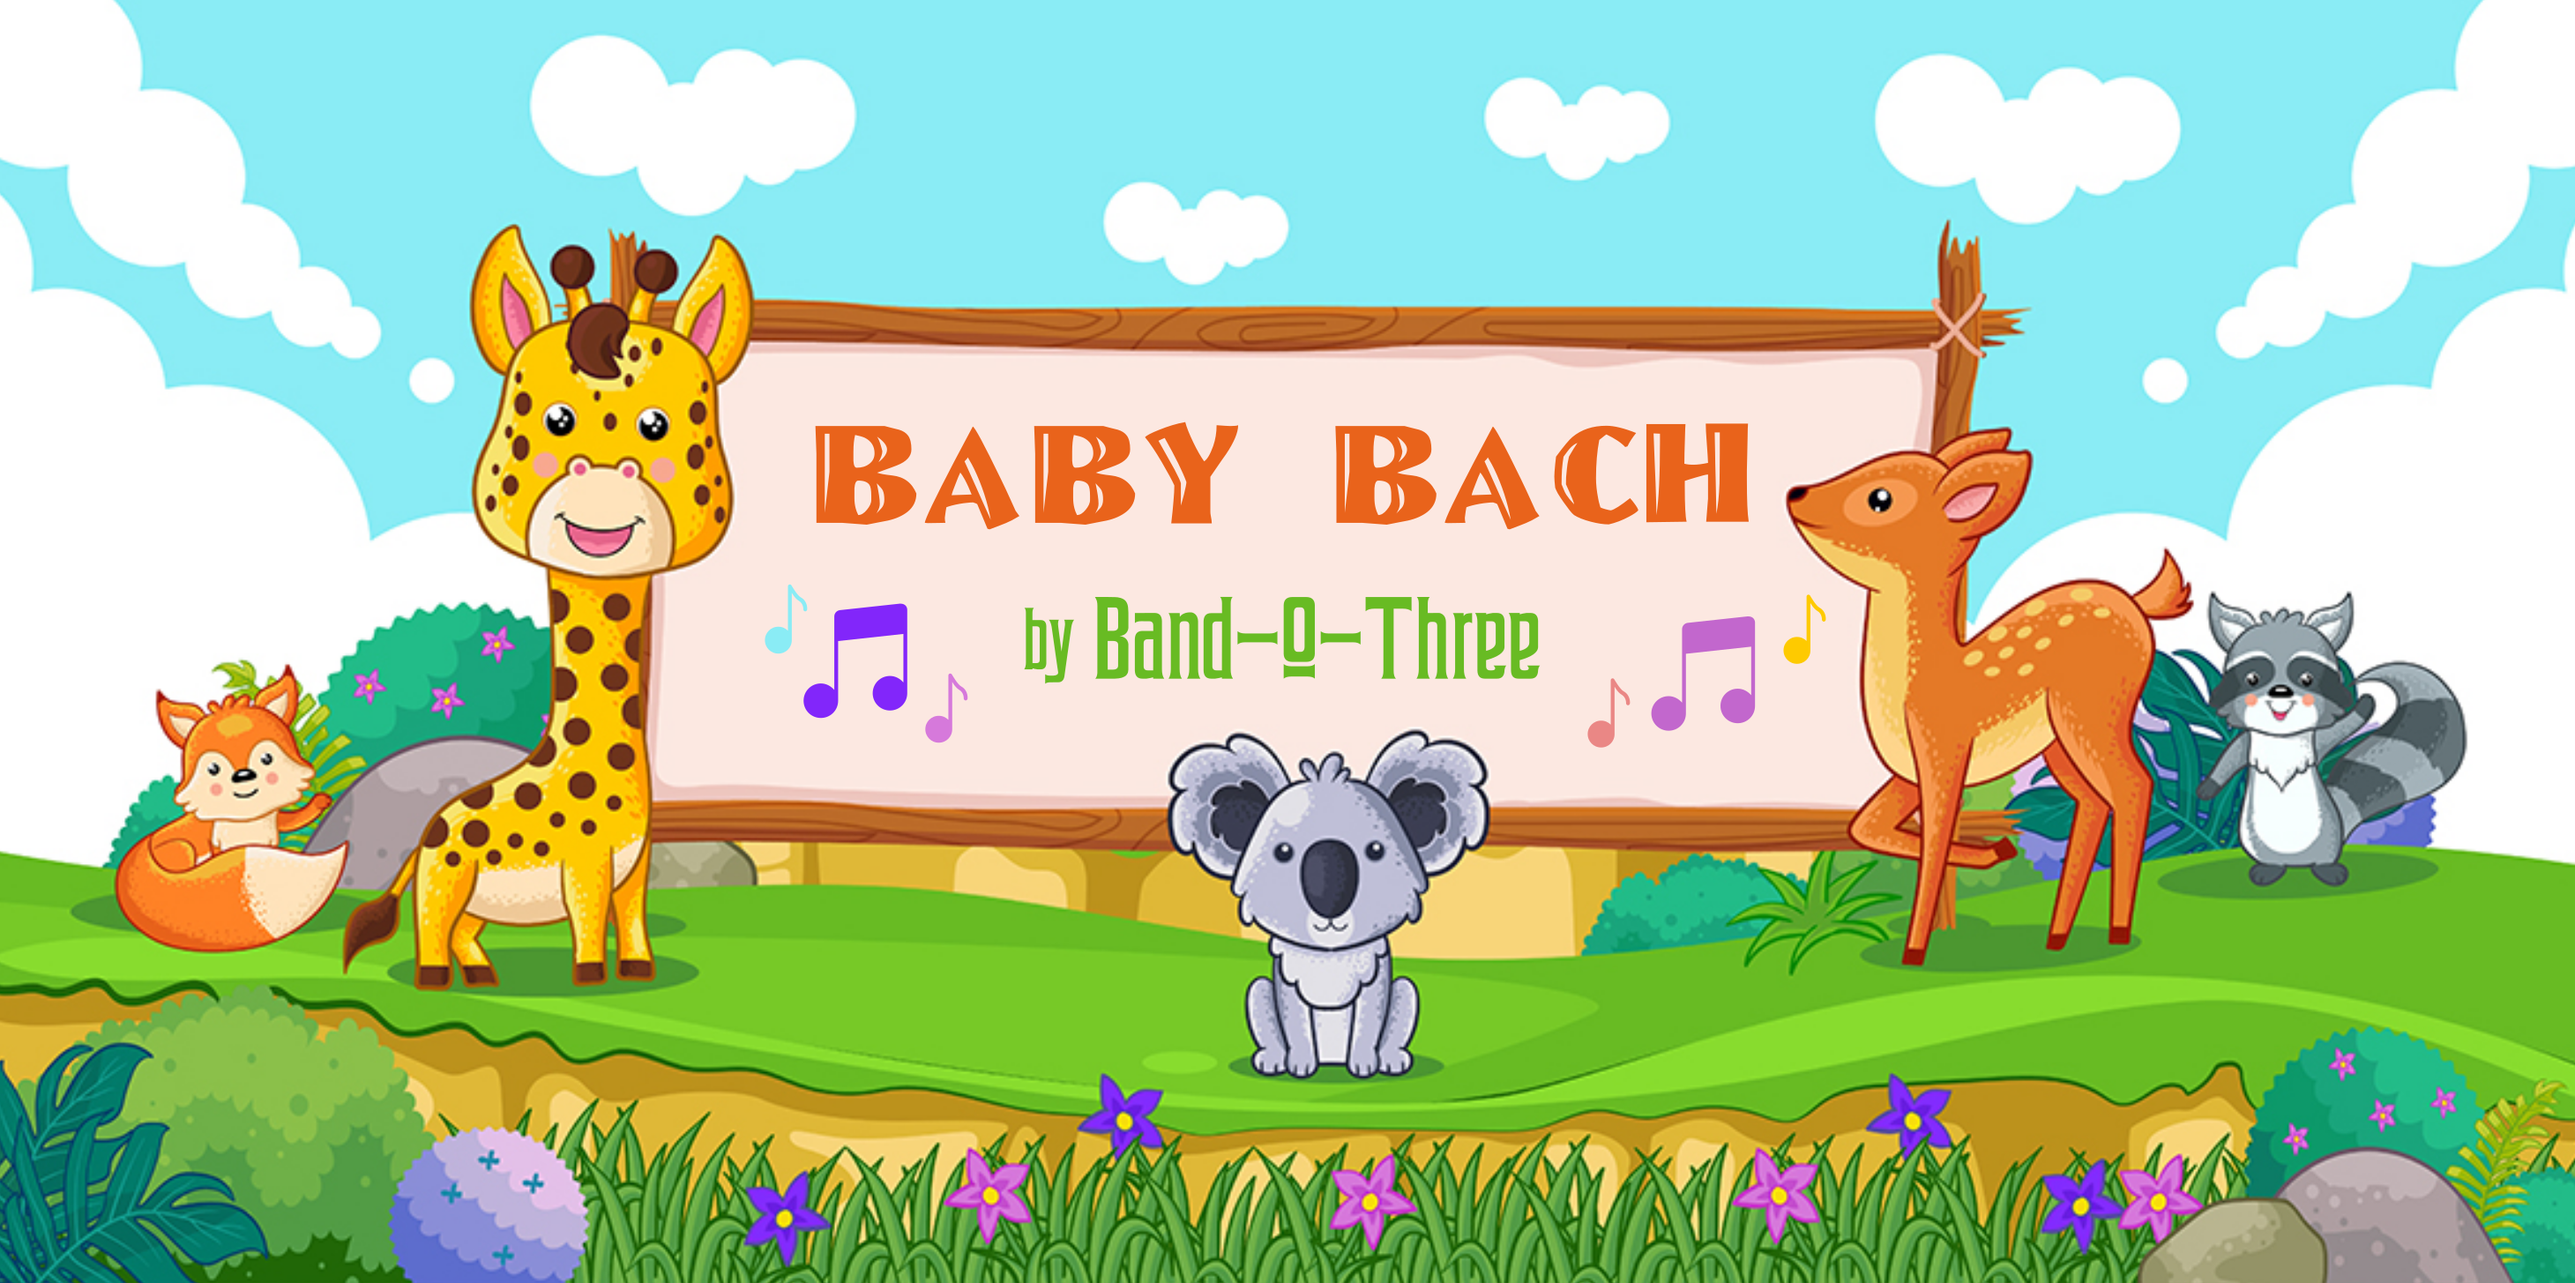
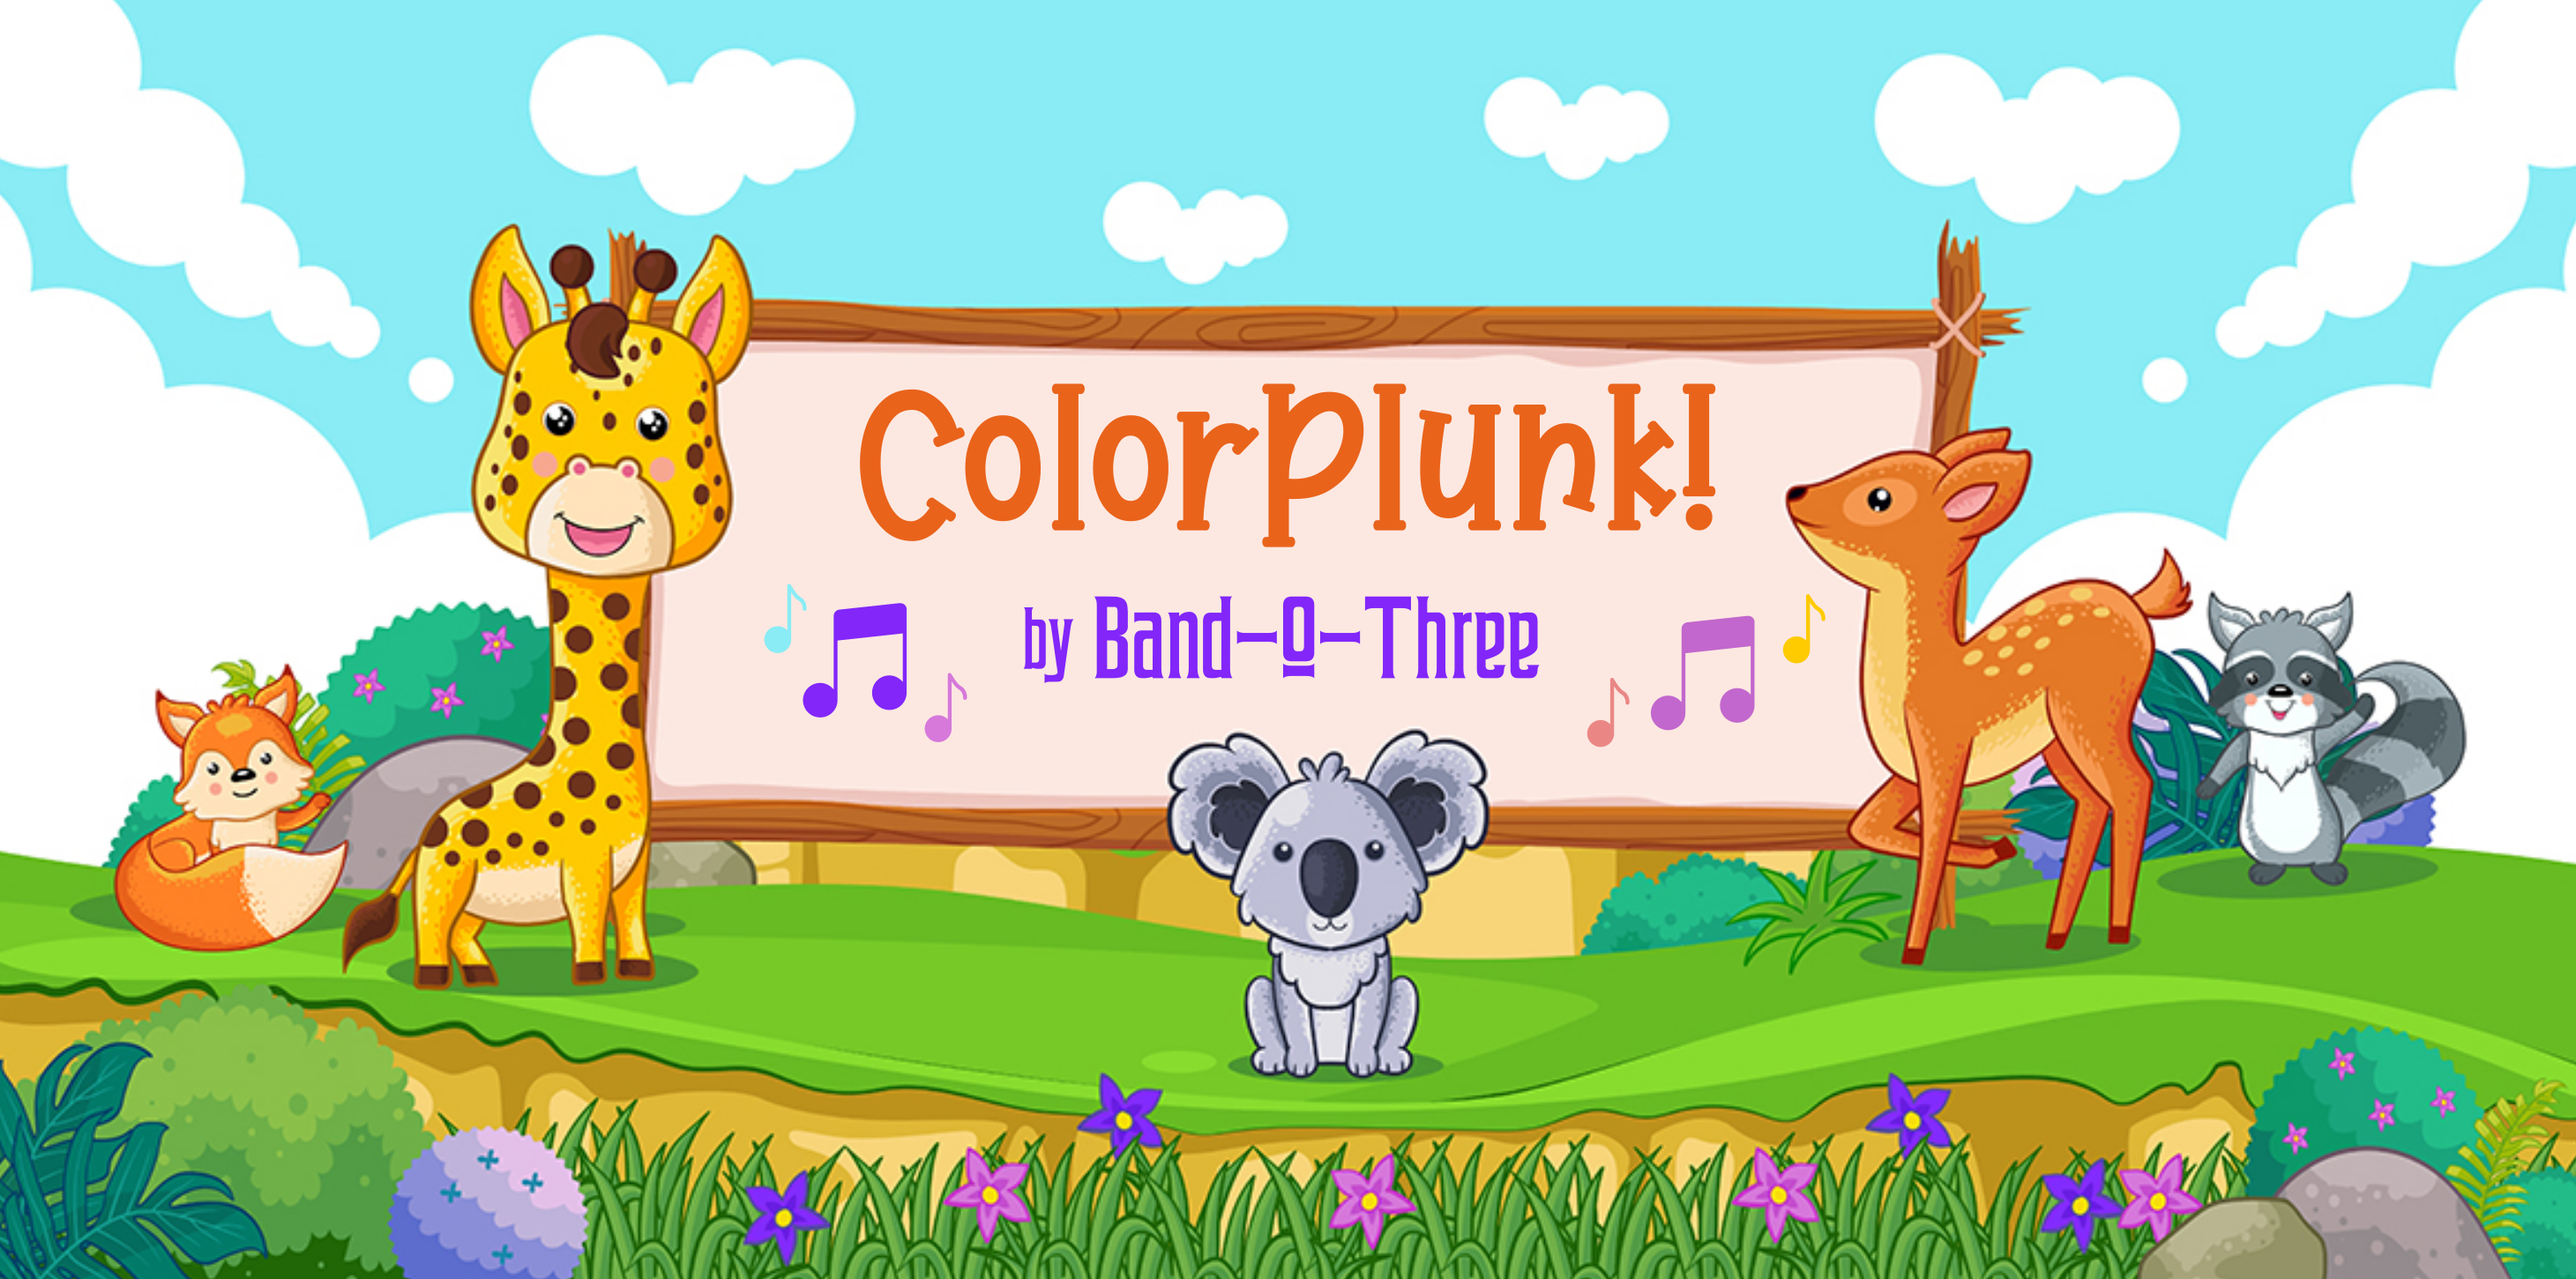
styling of piano page

diff --git a/src/pages/Piano.js b/src/pages/Piano.js
@@ -1,24 +1,57 @@
-import React from 'react'
+import React, { Fragment } from 'react'
 import '../App.css'
-import { playTwinkleTwinkle, playPolyphonicExample } from '../tone.fn.js'
+import {
+	playTwinkleTwinkle,
+	playDeColores,
+	playTheEntertainer,
+} from '../tone.fn.js'
 import Keys from '../components/Keys'
+import colors from '../assets/colors.png'
+import ent from '../assets/ent.png'
+import stars from '../assets/stars.png'
+import piano from '../assets/piano.png'
+import trumpet from '../assets/trumpet.png'
+import spaceship from '../assets/spaceship.png'
+import title from '../assets/title-img.png'
 
 const Piano = () => {
 	return (
-		<div className='pianoPage'>
-			<h1>Piano</h1>
-			<div className='piano'>
-				<Keys />
+		<Fragment>
+			<div className='pianoPage'>
+				<div className='title-wrapper'>
+					<img className='title-image' src={title} alt='colorplunk!' />
+				</div>
+
+				<div className='button-wrapper'>
+					<button className='song-button' onClick={playTwinkleTwinkle}>
+						<img src={stars} alt='Three stars in a box' />
+					</button>
+					<button className='song-button' onClick={playDeColores}>
+						<img src={colors} alt='3D circle of colors' />
+					</button>
+					<button className='song-button' onClick={playTheEntertainer}>
+						<img src={ent} alt='Top hat with monocle and mustache' />
+					</button>
+				</div>
+				<div className='piano-wrapper'>
+					<div className='piano'>
+						<Keys />
+					</div>
+				</div>
+
+				<div className='voice-wrapper'>
+					<button className='voice-button'>
+						<img src={piano} alt='keyboard' />
+					</button>
+					<button className='voice-button'>
+						<img src={trumpet} alt='trumpet' />
+					</button>
+					<button className='voice-button'>
+						<img src={spaceship} alt='girl in a spaceship' />
+					</button>
+				</div>
 			</div>
-			<div className='button-wrapper'>
-				<button className='temp' onClick={playTwinkleTwinkle}>
-					Twinkle Twinkle
-				</button>
-				<button className='temp' onClick={playPolyphonicExample}>
-					Polyphonic
-				</button>
-			</div>
-		</div>
+		</Fragment>
 	)
 }
 

diff --git a/src/App.css b/src/App.css
@@ -18,6 +18,18 @@ body {
 }
 
 /* Head Section */
+
+.title-wrapper {
+	display: flex;
+	justify-content: center;
+	margin-top: 25px;
+	margin-bottom: 50px;
+}
+
+.title-image {
+	width: 350px;
+}
+
 .hero-wrapper {
 	width: 100%;
 }
@@ -68,9 +80,12 @@ body {
 	width: 50%;
 }
 
+.screenshot img {
+	width: 700px;
+}
+
 .summary-wrapper {
 	width: 50%;
-	border: 2px solid black;
 }
 
 .summary-content {
@@ -78,6 +93,9 @@ body {
 	background-color: #feca00;
 	text-align: justify;
 	color: #710ef1;
+	border: 2px solid black;
+	height: 400px;
+	font-size: 1.25rem;
 }
 
 /* Demo Button */
@@ -119,19 +137,36 @@ body {
 	align-items: center;
 }
 
-.button-wrapper {
+.button-wrapper,
+.voice-wrapper {
 	display: flex;
 	justify-content: center;
 	margin-top: 10px;
 }
 
-.temp {
-	margin: 5px;
+.song-button,
+.voice-button {
+	margin: 40px 20px;
+	background-color: #fff;
+	border-radius: 10px;
+	cursor: pointer;
+}
+
+.song-button img,
+.voice-button img {
+	height: 100px;
+}
+
+.piano-wrapper {
+	display: flex;
+	justify-content: center;
+	margin-top: 10px;
 }
 
 .piano {
 	display: flex;
 	justify-content: center;
+	max-width: 65%;
 }
 
 .white {
@@ -139,10 +174,8 @@ body {
 	border-radius: 0 0 10px 10px;
 	background-color: white;
 	width: 100px;
-	height: 400px;
+	height: 250px;
 	box-shadow: 0px 3px 5px #666;
-	color: red;
-	text-align: center;
 }
 
 .white.C4:active {
@@ -195,13 +228,11 @@ body {
 	border-radius: 0 0 7px 7px;
 	background-color: black;
 	width: 60px;
-	height: 250px;
+	height: 147px;
 	box-shadow: 0px 3px 5px #666;
-	margin-left: -30px;
-	margin-right: -30px;
+	margin-left: -18px;
+	margin-right: -18px;
 	z-index: 1;
-	color: red;
-	text-align: center;
 }
 
 .black.Db4:active {

diff --git a/src/components/Summary.js b/src/components/Summary.js
@@ -4,27 +4,30 @@ const Summary = () => {
 	return (
 		<Fragment>
 			<div className='summary-content'>
-				<h3>About the Baby Bach App</h3>
+				<h3>About the ColorPlunk! App</h3>
 				<br />
 				<p>
 					Does your little one love to dance to some tunes? Or maybe even make
-					their own? Then Baby Bach is here!
+					their own? Then ColorPlunk! is here! ColorPlunk! was created for
+					little ones between 3-6 years old with fun graphics and interactions.
+					No need to read!
 				</p>
 				<br />
 				<p>
-					Baby Bach is a React application utilizing Tone.js that features an
+					ColorPlunk! is a React application utilizing Tone.js that features an
 					interactive piano that not only plays classical/original songs(Twinkle
-					Twinkle, Sukura Sukura, etc) but also allows for young ones to make
-					their own music!
+					Twinkle, The Entertainer and De Colores) but also allows for young
+					ones to make their own music! ColorPlunk! has incorporated not only
+					the synthesizer tones but trumpet and even spaceship tones.
 				</p>
 				<br />
-				<p>
+				{/* <p>
 					Making your own original music or following one of the original songs
 					may be difficult at first. However the keys in Baby Bach are not your
 					standard black and white piano keys. But rather they are colored keys,
 					which make it easy to remember what specific key generates which
 					distinct note. Making the musical experience visual, fun and awesome!
-				</p>
+				</p> */}
 			</div>
 		</Fragment>
 	)

diff --git a/src/components/Screenshot.js b/src/components/Screenshot.js
@@ -1,11 +1,11 @@
-import React, { Fragment } from 'react'
+import React from 'react'
 import screenshot from '../assets/screenshot.png'
 
 const Screenshot = () => {
 	return (
-		<Fragment>
+		<div className='screenshot'>
 			<img src={screenshot} alt='screenshot of Baby Bach app' />
-		</Fragment>
+		</div>
 	)
 }
 

diff --git a/src/components/Keys.js b/src/components/Keys.js
@@ -6,11 +6,7 @@ const Keys = () => {
 	return (
 		<Fragment>
 			{notes.map(note => (
-				<Key
-                    id={note.id}
-					color={note.color}
-					tone={note.tone}
-				/>
+				<Key id={note.id} color={note.color} tone={note.tone} />
 			))}
 		</Fragment>
 	)
